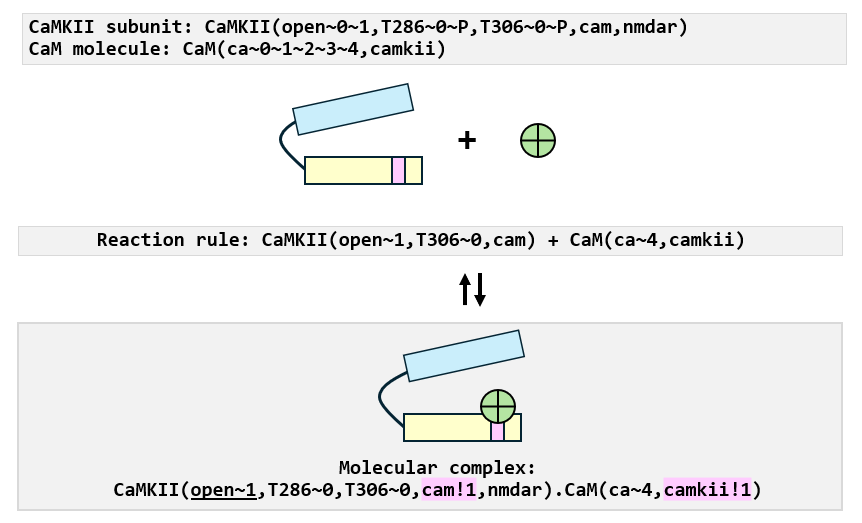
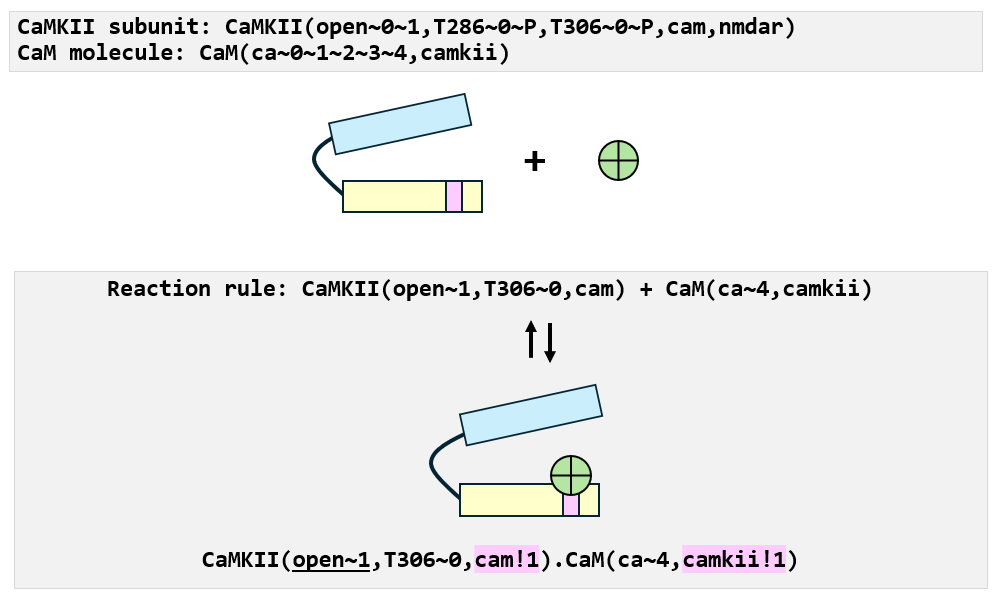
modified figure of bngl example

diff --git a/30-modelling_background.md b/30-modelling_background.md
@@ -49,9 +49,7 @@ Where \( n \) represents the number of subunits (or beads on a necklace), \( a \
 Thus, for a CaMKII ring with 6 subunits (a=6) with each one having 16 possible states (a=16), the possible number of state combinations would be: 2,796,976. This number of possible states is only estimated for one of the hexamer rings of a CaMKII dodecamer (which has 2 rings of 6 subunits). This example hopefully serves to illustrate how the combinatorial explosion of CaMKII's possible states makes it practically impossible to explicitly enumerate or efficiently evaluate all possible configurations using conventional mass action-based methods. In fact, previous studies have suggested that a CaMKII dodecamer could have as many as $10^{20}$ possible states (see appendix S1 for [@pharris2019Multistate]). Moreover, the fact that the potential states of CaMKII vastly outnumber the actual CaMKII molecules in a dendritic spine, suggests that not all states occur with the same frequency and therefore not all mathematically calculated states are equally biologically relevant. While the precise roles and combinations of CaMKII states in synaptic plasticity are still an active area of study, some functionally relevant states have been identified. This is where rule based modelling offers powerful advantages: rather than accounting exhaustively for all possible states, we can incorporate those states known to have biological significance and allow the model to reveal emergent behavior through rule-based interactions. 
 
 ### Rule based modelling 
-Despite the high relevance of modelling site-specific details on protein-protein interactions of signalling systems, there has been a lack of standards for explicitly representing the composition and connectivity of molecular complexes @ezkurdia2009Progress. Models that incorporate complex protein-protein interaction details are generally difficult or impossible to specify and analyse, largely because of the combinatorial complexity we mention above; i.e., the combinatorial number of protein modifications and protein complexes that can be generated through protein–protein interactions. The challenges posed by combinatorial complexity motivate the rule based modelling (RBM) approach to modelling cell signalling systems.
-
-RBM can help with combinatorial complexity by using a set of logical rules to describe how molecules interact with each other. In RBM, the system is modelled by specifying the reactions (or rules) that describe how molecules interact and change. In other words, Instead of listing every individual interaction or molecular species explicitly, rules are used to represent how molecules bind, modify, and transform. These rules are applied to sets of molecules that can be in different states or configurations, and the overall dynamics of the system emerge from the repeated application of these rules. This method allows for computationally efficient models and can scale to handle large and complex systems.
+Models that incorporate complex protein-protein interaction details are generally difficult or impossible to specify and analyse, largely because of the combinatorial complexity we mention above; i.e., the combinatorial number of protein modifications and protein complexes that can be generated through protein–protein interactions. The challenges posed by combinatorial complexity motivate the rule based modelling (RBM) approach to modelling cell signalling systems. RBM can help with combinatorial complexity by using a set of logical rules to describe how molecules interact with each other. In RBM, the system is modelled by specifying the reactions (or rules) that describe how molecules interact and change. In other words, Instead of listing every individual interaction or molecular species explicitly, rules are used to represent how molecules bind, modify, and transform. These rules are applied to sets of molecules that can be in different states or configurations, and the overall dynamics of the system emerge from the repeated application of these rules. This method allows for computationally efficient models and can scale to handle large and complex systems.
 
 In our approach, we employ rule-based modelling using the BioNetGen Language (BNGL), though other tools like Kappa and PySB (and more [REFERENCES]) are also available. Different approaches to RBM are used depending on one's objectives and modelling focus [REFERENCES].  BNGL provides a language that is tailored towards modelling biochemical networks with domain-specific requirements, allowing for the detailed specification of molecules and their binding domains, which is particularly useful for studying protein post-translational modifications such as autophosphorylation of CaMKII. Additionally, BNGL supports the inclusion of cellular compartments through its compartmental extension (cBNGL), which enhances the accuracy of modelling the spatial dynamics of biochemical processes. BNGL has been integrated with MCell4, a simulation software utilised in this project (as detailed in SECTION REFERENCE), via pyBNGL—a Python interface library. This integration enables BNGL models to be executed as network-free simulations and spatially resolved, allowing for more nuanced and detailed analysis.
 
@@ -61,17 +59,13 @@ In summary, these capabilities make BNGL an ideal language for encoding our mode
 
 - It allows for these interactions to be studied through time and space (when combined with MCell4). This means that we can not only observe site-specific interactions but also track how these interactions evolve over time and within a cellular volume. For instance, we can investigate whether CaMKII is more likely to be phosphorylated near the postsynaptic density or at a distance from it.
 
-- It helps to manage complexity in several ways: through network-free modelling, we can avoid the combinatorial explosion associated with enumerating an entire network, which is often intractably complex. Additionally, its rule-based approach enables us to bypass the need to specify all possible states. This is facilitated by a "don't care, don't write" principle, which we will elaborate on in the following section.
+More generally, BNGL rule based modelling also helps to manage complexity in several ways: through network-free modelling, we can avoid the combinatorial explosion associated with enumerating an entire network, which is often intractably complex. Additionally, its rule-based approach enables us to bypass the need to specify all possible states. This is facilitated by a "don't care, don't write" principle, which we will elaborate on in the following section.
 
-Rules are primarily based on experimental observations and they determine when an implicitly defined reaction can happen. _At any given iteration, only the states that matter for the execution of a particular rule are explicitly declared. States that do not matter to a particular rule can be omitted, a principle that has been paraphrased as “don’t care, don’t write”._ For instance, lets consider a reaction rule where a CaMKII subunit binds to a CaM molecule [@fig-bngl-rbm-example]. 
+Rules in RBM are primarily based on experimental observations and they determine when an implicitly defined reaction can happen. For any given iteration, only the states that matter for the execution of a particular reaction (or rule) are explicitly declared. States that do not matter to a particular rule can be omitted, this is the powerful idea of “don’t care, don’t write”, a coloquial term that is at the heart of RBM. For instance, lets consider a reaction rule where a CaMKII subunit binds to a CaM molecule [@fig-bngl-rbm-example]. 
 
-![CaMKII binding to CaM example of don't care, don't write in bionetgen rule based modelling. The CaMKII subunit is depicted with several possible states, each defined by different flags. The open flag determines whether the subunit is in a closed (0) or open (1) state. The T286 and T306 flags represent the phosphorylation states, where a value of 0 indicates the subunit is unphosphorylated, and "P" indicates phosphorylation at those specific sites. The cam flag refers to a binding site for CaM, which can either be bound or unbound, depending on whether CaM is attached to the subunit. Similarly, the nmdar flag represents another binding site for the NMDA receptor, which can also be in a bound or unbound state. The cam and nmdar flags represent binding events that can occur or not, depending on whether CaM or NMDA receptors are bound to the subunit.](30-modelling-figures\camkii_cam_bngl_example.PNG){#fig-bngl-rbm-example}
+![CaMKII binding to CaM example of don't care, don't write in bionetgen rule based modelling. The CaMKII subunit is depicted with several possible states, each defined by different flags. The open flag determines whether the subunit is in a closed (0) or open (1) state. The T286 and T306 flags represent the phosphorylation states, where a value of 0 indicates the subunit is unphosphorylated, and "P" indicates phosphorylation at those specific sites. The cam flag refers to a binding site for CaM, which can either be bound or unbound, depending on whether CaM is attached to the subunit. Similarly, the nmdar flag represents another binding site for the NMDA receptor, which can also be in a bound or unbound state. The cam and nmdar flags represent binding events that can occur or not, depending on whether CaM or NMDA receptors are bound to the subunit.The reaction rule only specifies the states that are relevant for said reaction, and the rest is left unspecified. In this case, CaMKIII needs to be open, unphosphorylayed at T306, and unbound from any calmodulin molecules, for calmodulin to bind. The requirements for CaM to bind to CaMKII are that it is in a state of being bound to four calcium, and its camkii binding site is free. When these conditions are met, regardless of any other states, the reaction will occur. As a result a molecular complex will form, where CaMKII and CaM are bound through their respective binding sites, represented with a “!1” link notation.](30-modelling-figures\camkii_cam_bngl_example.PNG){#fig-bngl-rbm-example}
 
-_Rules are conditions, based primarily on experimental observations, that prescribe when an implicitly-defined reaction may occur. At a given iteration, only states that matter for the execution of a particular rule are explicitly declared. States that do not matter to a particular rule can be omitted, a principle that has been paraphrased as “don’t care, don’t write”_
 
---
-
-In our approach, we focus on a rule-based modelling framework using BioNetGen Language (BNGL), though other tools like Kappa and PySB (and more [REFERENCES]) are also available. Different approaches to RBM are used depending on one's objectives and modelling focus. BNGL provides a language that is tailored towards modelling biochemical networks with domain-specific requirements, whereas systems such as Kappa and PySB  ...
 
 mention here we are focuding on bngl rule based approach but there are others AND then can make it combo of rbm and bngl fused information. In a rule-based approach to modeling, the molecular interactions in a system are abstracted as BNGL-encoded rules, which are precise formal statements about the conditions under which interactions occur and the consequences of these interactions. Rules also provide rate laws for transformations resulting from molecular interactions. At one extreme, a rule simply corresponds to an individual chemical reaction. However, a rule is far more useful when local context governs an interaction, and the rule can be specified such that it defines not a single reaction but a potentially large class of reactions, all involving a common transformation parameterized by the same rate law. The use of such rules to model protein—protein interactions can often be justified, at least to a first approximation, by the modularity of proteins (12). 
 
